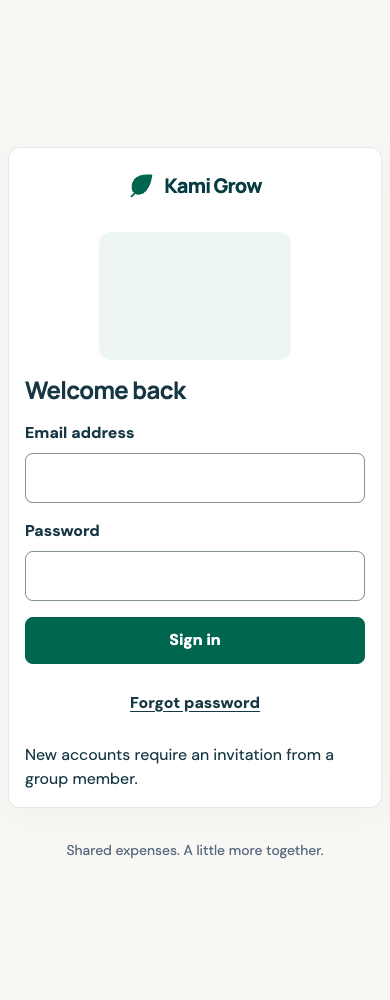
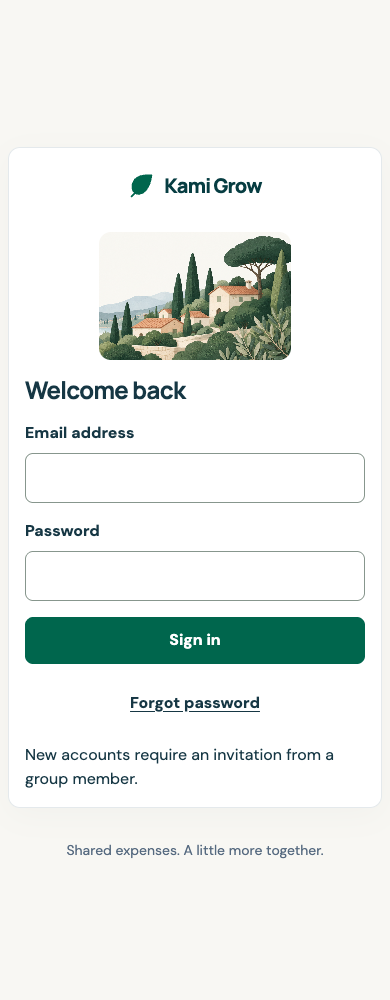
fix(account): verify accessible dark profile and invitation surfaces

Changed region(s): [[0.2462, 0.217, 0.7692, 0.372]]

diff --git a/apps/web/src/components/onboarding/onboarding.css b/apps/web/src/components/onboarding/onboarding.css
@@ -261,3 +261,34 @@
 .account-content h1[tabindex='-1']:focus {
   outline: none;
 }
+
+/* These signed-in surfaces use the shared semantic tokens in either scheme. */
+@media (prefers-color-scheme: dark) {
+  body:has(.account-workspace),
+  body:has(.scoped-invitations) {
+    color-scheme: dark;
+    --color-ink: #e3eee9;
+    --color-muted: #bacbc4;
+    --color-primary: #82d8bd;
+    --color-primary-hover: #a3e8d0;
+    --color-canvas: #101b17;
+    --color-subtle: #20302a;
+    --color-separator: #3d5147;
+    --color-surface: #182720;
+    --color-balance: #213d31;
+    --color-border: #819b8b;
+    --color-danger: #ffb0a0;
+    --color-error-surface: #46261f;
+    --color-focus: #9ac4ff;
+  }
+  .account-workspace .ui-button,
+  .financial-journey:has(.scoped-invitations) .ui-button {
+    background: #00664d;
+    color: #ffffff;
+  }
+  .account-workspace .ui-button--secondary,
+  .financial-journey:has(.scoped-invitations) .ui-button--secondary {
+    background: var(--color-surface);
+    color: var(--color-primary);
+  }
+}

diff --git a/docs/application/account-browser-evidence.md b/docs/application/account-browser-evidence.md
@@ -22,6 +22,8 @@ Additional rendered evidence: [320px Account](evidence/account-202/account-320-1
 [768px Account](evidence/account-202/account-768-1.png),
 [120-codepoint international name at 320px/200%](evidence/account-202/account-long-name-320-2.png),
 [dark Account at 390px/200%](evidence/account-202/account-dark-390-2.png),
+[dark scoped invitations on mobile](evidence/account-202/household-invitations-dark-390-2.png) and
+[desktop](evidence/account-202/household-invitations-dark-1280-1.png),
 [failed profile read at 320px/200%](evidence/account-202/profile-error-320-2.png),
 [signed-out desktop](evidence/account-202/signed-out-1280-1.png) and
 [signed-out mobile](evidence/account-202/signed-out-390-1.png).
@@ -41,7 +43,9 @@ it. This exercises the real root FinancialSession; the harness never resets that
 provider to simulate a profile refresh. Existing session tests and independent
 requirements tests additionally cover account-switch and late-response safety.
 
-The browser also checks navigation during failed profile reads, dark mode,
+The browser asserts actual dark color-scheme tokens on Account and scoped
+invitations; these surfaces supply dark semantic tokens because the existing
+base application otherwise forces light mode. The browser also checks navigation during failed profile reads, dark mode,
 keyboard focus from display name to read-only email, retryable failed sign-out
 while the session remains active, automatic history replacement to a usable
 sign-in form, and Back/reload/direct protected Account visits after logout. The
